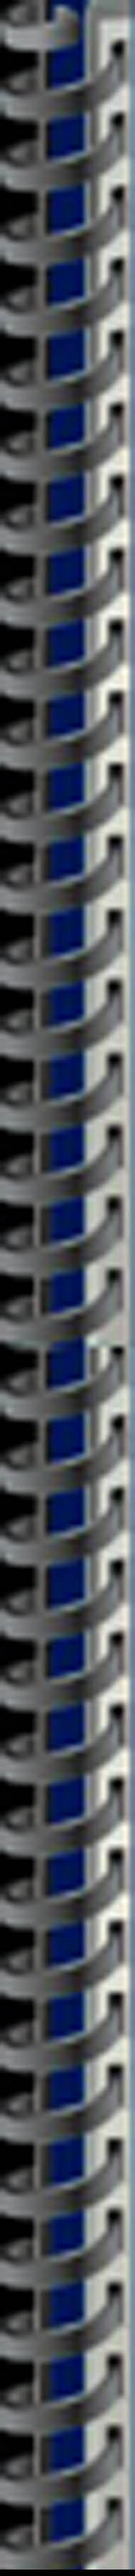
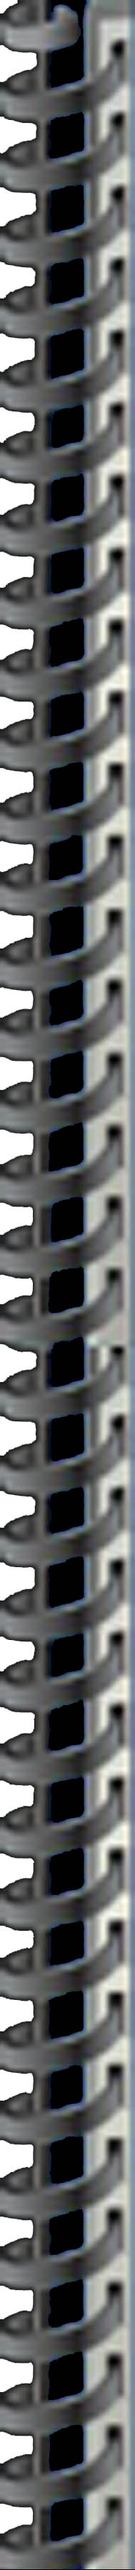
Style sheet updated: Background color of pages changed

diff --git a/assets/contents/view_Alexander The Great.html b/assets/contents/view_Alexander The Great.html
@@ -1,0 +1,31 @@
+<link rel="stylesheet" href="../../css/my_style.css">
+<link href="https://fonts.googleapis.com/css?family=Atma|Courgette|Galada|Josefin+Sans:600|Kalam" rel="stylesheet">
+<div class="articles1" style="text-align: center;">
+  <br>
+  Hailed variously as a demigod and the ‘son of Jupiter’ in his own times, the charisma surrounding the  personality, life and adventures of Alexander of Macedon (the Great) has captured the fancy of historians, bards and storytellers alike even after centuries of his demise. The legendary fame of Alexander and his conquests is not only a staple of Greek patriotism, but also rather paradoxically, as Richard Stoneman has noted [1] , the stuff of tales and ballads in even those lands which were once his conquered dominions. Whetting the imaginative appetites of bards and storytellers extending from Andalusia in the west to China in the east, cutting across temporal, spatial and linguistic barriers, the historical memory of Alexander has morphed into quasi-mythical narratives, giving rise to a new genre of literature known as ‘Alexander Romance’, written in both poetry and prose. One such rigorous tradition of composing Alexander Romances has existed in medieval Persia too, between the early 11th to 15th centuries, after which no Alexander Romance of note has been composed.
+  <br><br>
+  Needless to say, works of literature are not composed in a socio-intellectual vacuum. The characters in his writings are what an author makes them to be. Consequently, the convictions and opinions of an author have a lot of bearing upon how his characters are modeled, and these in turn are heavily influenced by the age and socio-intellectual milieu of which the author is a part. Here, I propose to examine three principal works- Abul Qasim Ferdowsi’s ‘Shah Nameh’, Nizami Ganjavi’s ‘Iskandar Nameh’, and Abdur Rahman Jami’s ‘Khiradnameh-ye-Iskandari’, all of which may be considered as representatives  of the Persian Alexander Romance epic genre, and thereby attempt to map the evolution of Alexander’s persona in this genre by placing these works in their respective socio-intellectual contexts. This paper, therefore, is a combined exercise in hermeneutics and legendary iconography.
+  <br><br>
+  Two distinct and opposing images of Alexander have existed in Persian literary tradition. The first, and older image ,derived from Zoroastrian priestly traditions, is that of Alexander as Iran’s arch enemy, the ‘Gizistag’ (accursed), a devil-incarnate and son of Ahriman (the arch diabolical figure in Zoroastrian mythology) who subjugates Iran, assassinates her legitimate king, decimates the priesthood and the nobility, and razes cities and fire temples to the ground. The second, and the more positive image of Alexander is derived from the lore prevalent amongst the Sasanid nobility, which probably had its roots in a Syrian recension of the Alexander Romance, and which later became Islamicized.[2]  In Ferdowsi’s Shah Nameh, an unresolved tension is evident between the older, negative and diabolical image of Alexander, and the newer, positive and by then Islamicized image. [3] In his work, Alexander is at once the accursed offspring of Ahriman, the arch enemy of Iran, and also the legitimate Iranian ruler, a world conqueror whose defining qualities are wisdom, generosity and piety- he is even shown as visiting the Kabah in Mecca. A closer inspection, however, reveals two reasons behind this literary anomaly. The first of these reasons is the sources which Ferdowsi has used in his magnum opus. As Haila Manteghi has demonstrated, the sources which Ferdowsi used in composing his legendary accounts were pre-Islamic and Persian, when the legend of Alexander had yet not been Islamicized and imbued with positive qualities. [4] Secondly, the reason behind this contradiction becomes all the more clear when one considers the literary backdrop against which Ferdowsi was writing. This was the period of the renaissance of the Iranian cultural and literary spirit, famously called the ‘Samanid Renaissance’ after its chief patrons, the Samanids. In Mahmud of Ghazni, Ferdowsi’s  patron, the Samanid renaissance had found a ready exponent. [5] Iranian patriotism, therefore, is the animating spirit of the Shah Nameh, and explains the deference paid by Ferdowsi to traditional Alexander –image in the Iranian ‘national history’ (Khwaday Namag). Also noteworthy here is how Ferdowsi appropriates Alexander into the line of Persian kings by making him half-Persian, as the son of King Darab from the daughter of Filqus (Philip), and therefore the half-brother of Darius – an act in keeping with the Iranian patriotic belief that prior to the Arabs, no foreign ruler had conquered Iran. [6]
+  <br><br>
+  By the time Nizami Ganjavi wrote his Iskandar Nameh, the image of Alexander in Persianate Muslim literary tradition had been fully Islamicized, and Alexander identified with the Qur’anic figure of ‘Dhul Qarnayn’ (the ‘two-horned’), and purged of all his former negative attributes. [7] In Nizami’s work, Alexander is still associated with the Greco-Roman antiquity as the king of ‘Rum’ (Byzantium), but he is no longer a Christian (as in Ferdowsi’s Shah Nameh), but a Muslim warrior and saint. In this two-part work, the first part, Sharaf  Nameh (‘the Book of  Honour’), Alexander is portrayed as a world-conqueror, moved not by the lust for wealth and temporal power, but by the missionary zeal to spread the civilizing rule of Islam. In the second part, Iqbal Nameh (‘the Book of Fortune’)he appears as a saint, surrounded by a group of (rather anachronistic) philosophers such as Plato, Aristotle, Socrates, Porphyry etc. [8] Thus, the earlier kingly and martial aspect of Alexander’s image is greatly subsumed into his role as a saint-proselytizer. 
+  <br><br>
+  The association of philosophy with sainthood in Nizami’s portrayal of Alexander as a warrior-saint-philosopher is an interesting and rather bold statement, and must be seen against the backdrop of the intense mounting religious opposition to the influence of Greek philosophy over Muslim theology in Nizami’s own times, largely due to the pressure from the Ash’ari ulama, representing one of the two orthodox schools in Sunni scholastic theology (the other being the Maturidis),who stressed the primacy of revelation over logical and philosophical reasoning  in attaining objective knowledge of God. It was in the eleventh century, the one prior to Nizami’s, that Muhammad Abu Hamid al-Ghazali, the mystic and premier Ash’ari theologian, had composed his ‘Tahafut-ul-Falasifa’ (‘The Incoherence of the Philosophers’) - a polemical denunciatory tract against Greek philosophy, which signaled the start of the Sunni orthodoxy’s long and bitter war against philosophers. Furthermore, two related incidents within Nizami’s living memory had deeply impacted him- the execution of the 35-year old Shihab -ad -Din Suhrawardi, the founder of the Illuminationist (Ishraqi) school of philosophy in 1191 at the fatwa of a tribunal of theologians at Aleppo, and the banning of the septuagenarian Ibn Rushd (known in the West as Averroes) from his hometown Cordoba in 1195, and the burning of his books. Therefore, when Nizami combined the saint and the philosopher within the persona of Alexander, it was indicative of  his stance on philosophy, in whose defence he squarely stood – philosophy was for him God-given, an extension of man’s innate rationality, and therefore compatible with revelation. [9]
+  <br><br>
+  His kingly majesty and saintliness notwithstanding, Abdur Rahman Jami in his Khiradnameh –ye –Iskandari (‘the Book of Alexander’s Wisdom) develops the character of Alexander couched in distinctly humanistic terms. Alexander may be a world conqueror and saint-missionary, but he is nevertheless human, and therefore mortal- a fact underscored by his doomed search for the ‘Water of  Life’ (Aab-i-Hayat) which can grant him immortality, and by his request to his ministers to leave his hand hanging out of the shroud at his burial to demonstrate that he, a world-conqueror and paragon of spirituality, leaves the world empty handed just like all others. This emphasis on humanism in Alexander’s portrayal may be seen as a part of the larger trend of the efflorescence of Persian literary humanism in the Timurid Empire of which Jami was a resident, and also as a reflection of Sufi otherworldliness emphasizing the transient nature of the temporal world, whose roots lay in Jami’s Naqshbandi associations. [10] 
+  <br><br>
+  The evolution of Alexander’s image in medieval Persian epic literature, therefore, has been a process marked by constant interaction with the socio-intellectual matrix in which it unfolded- a highly variegated development, influenced directly by the socio-intellectual thought currents which animated the literati and intelligentsia of medieval Iran. From Ferdowsi’s robust Iranian patriotism , to Nizami’s philosophical sensibilities, to Jami’s passionate humanism and otherworldliness, each of these influences have left an indelible mark on the manner in which Alexander’s legendary persona has evolved, in the process transforming the folk memory of Alexander from that antagonist, alien conqueror and byword for tyranny to that of a familiar, homely icon- an epitome of all those values which the soul of Persianate civilization has always espoused. Somewhat similar has been the case of his Indo-Greek counterpart, Menander or Milinda, the inquisitive king of Nagasena’s  ‘Milinda Panho’, fondly remembered as the ‘Dhammaka’ (upholder of the ‘Dhamma’) in Indo-Buddhist canonical literature – a far cry from the distaste in which his Yavana Seleucid and Indo-Bactrian antecedents had been held by the classical authors. This indigenization and assimilation of the bitter memory of conquering foreign monarchs into the folk memory of the conquered through the agency of literature validates a point argued so passionately and eloquently by Jami- the role of literature as a unifying bond across humanity.
+  <br><br><br><br>
+  NOTES <br><br>
+  [1] Richard Stoneman, ‘Introduction’ in Richard Stoneman, Kyle Ericson and Ian Netton (eds.), The Alexander Romance in Persia and the East,(Groningen: Barkhuis Publishing and Groningen University Library, 2012 ), p. ix.<br>
+  [2] Josef Wiesehöfer, ‘The ‘Accursed’ and the ‘Adventurer’: Alexander the Great in Iranian Tradition’ in Z. David Zuwiyya (ed.), A Companion to Alexander Literature in the Middle Ages, (Leiden: Brill, 2011), pp. 124-129.<br>
+  [3] ibid, p. 129.<br>
+  [4] Haila Manteghi, ‘Alexander the Great in the Shahnameh of  Ferdowsi’, in Stoneman, Ericson, Netton  (eds.),The Alexander Romance, pp. 161-174.<br>
+  [5] Satish Chandra, History of Medieval India,(New Delhi: Orient Blackswan Private Limited, 2007, rpt.2014), p. 59.<br>
+  [6] Sulochana Asirvatham, ‘Alexander the Philosopher in Greco-Roman, Persian and Arabic Traditions’ in Stoneman, Ericson, Netton (eds.), The Alexander Romance, p. 320.<br>
+  [7] Z. David Zuwiyya, ‘ The Alexander Romance in the Arabic Tradition’ in Zuwiyya (ed.), A Companion to Alexander Literature, pp.74-75.<br>
+  [8] Asirvatham, ‘Alexander the Philosopher’ in Stoneman, Ericson, Netton (eds.) The Alexander Romance, pp. 321-22.<br>
+  [9] Johanne Christoph Bürgel, ‘Nizami’s World Order’ in Johann Christoph Bürgel and Christina van Ruymbeke (eds.), A Key to the Treasure of the Hakim: Artistic and Humanistic aspects of Nizami Ganjavi’s Khamsa,(Leiden:Leiden University Press, 2011), p.27.<br>
+  [10] Owen Cornwall, Alexander and the Persian Cosmopolis,1000-1500, (Colombia: Colombia University Press, 2016), pp. 152-180.<br>
+
+</div>

diff --git a/assets/contents/Alexander The Great.html b/assets/contents/Alexander The Great.html
@@ -1,0 +1,98 @@
+<!DOCTYPE html>
+<html lang="en-US">
+
+<head>
+  <meta charset="UTF-8">
+    <meta name="viewport" content="width=device-width, initial-scale=1.0, shrink-to-fit=no" />
+    <title>From World-conqueror To Warrior-saint: The Image Of Alexander The Great In Medieval Persian Epics</title>
+
+    <!--Bootstrap CSS-->
+    <link rel="stylesheet" href="https://maxcdn.bootstrapcdn.com/bootstrap/4.0.0/css/bootstrap.min.css" integrity="sha384-Gn5384xqQ1aoWXA+058RXPxPg6fy4IWvTNh0E263XmFcJlSAwiGgFAW/dAiS6JXm" crossorigin="anonymous">
+  
+    <!-- CUSTOM STYLE -->
+    <link href="https://fonts.googleapis.com/css?family=Architects+Daughter|Gamja+Flower" rel="stylesheet">
+    <link rel="stylesheet" href="../../css/my_style.css">
+    <link href="https://fonts.googleapis.com/css?family=Atma|Courgette|Galada|Josefin+Sans:600|Kalam" rel="stylesheet">
+    
+  </head>
+
+  <body>
+
+    <section class="navbar-brand top-bar">
+      <p style="text-align: center;">
+        <a href="index.html"><img class ="logo" src="../../images/logo_niche.png"></a>
+        <span class="ymg">a product of <a href="youninquemag.org"><img src="../../images/logo_ymg.png"></a></span>
+      </p>
+    </section>
+    <section>
+          <ul class="pages">
+            <li><a href="#">Home</a></li>
+            <li class="dropdown-C"><a href="#">Contents</a>
+              <div class="dropdown-items-C">
+                <a href="">Physics and Philosophy</a>
+                <a href="">A Chat with Ideology</a>
+                <a href="">Alexander The Great</a>
+                <a href="">Sequencing Genome</a>
+                <a href="">Capital and Cricket</a>
+                <a href="">Gaming, Life and the Styles</a>
+                <a href="">Reservation in India</a>
+                <a href="">বিশ্বাসের অনুচ্ছেদ</a>
+                <a href="">কবির  গান</a>
+                <a href="">সঙ্গীত সবার জন্য</a>
+                <a href="">ঊর্ণনাভ</a>
+                <a href="">কাঠের আলমারির ঝুল ময়লা</a>
+              </div>
+            </li>
+            <li><a href="#">Our Authors</a></li>
+            <li><a href="#">Editor's note</a></li>
+          </ul>
+    </section>
+
+    <main>
+      <div class="container">
+        <p class="content">
+          <img src="../../images/spiral.jpg" class="spiral">
+
+          <p class="article" style="text-align: center; font-family: 'Kalam', cursive;"">
+            <span class="content-heading">
+              <span style="font-size: 1em;">
+                From World-conqueror To Warrior-saint: The Image Of Alexander The Great In Medieval Persian Epics
+              </span>
+              <span style="font-size: 0.75em; font-weight: normal;">
+                <br>by<br>Anwit Shahi
+              </span>
+            </span>
+            <br><br>
+            <span class="ifrm">
+              <iframe src="view_Alexander The Great.html" height="700px" width="100%">iframe</iframe>
+            </span>
+          </p>
+        </p>
+      </div>
+    </main>
+
+    <div>
+      <footer>
+        <table>
+          <tr>
+            <td>
+              <a href="facebook.com/youniquemag123"><img src="../../images/fb_logo.jpg"> Find us on Facebook</a>
+            </td>
+            <td><a href=""><img src="../../images/prev.png"> Previous page</a></td>
+            <td>From World-conqueror To Warrior-saint: The Image Of Alexander The Great In Medieval Persian Epics</td>
+            <td><a href="">Next Page<img src="../../images/next.png"></a></td>
+            <td><p>Contact us:<br>email: niche@youniquemag.org</p></td>
+          </tr>
+        </table>
+      </footer>
+    </div>
+
+    <!--JS-->
+    <script src="https://code.jquery.com/jquery-3.2.1.slim.min.js" integrity="sha384-KJ3o2DKtIkvYIK3UENzmM7KCkRr/rE9/Qpg6aAZGJwFDMVNA/GpGFF93hXpG5KkN" crossorigin="anonymous"></script>
+    <script src="https://cdnjs.cloudflare.com/ajax/libs/popper.js/1.12.9/umd/popper.min.js" integrity="sha384-ApNbgh9B+Y1QKtv3Rn7W3mgPxhU9K/ScQsAP7hUibX39j7fakFPskvXusvfa0b4Q" crossorigin="anonymous"></script>
+    <script src="https://maxcdn.bootstrapcdn.com/bootstrap/4.0.0/js/bootstrap.min.js" integrity="sha384-JZR6Spejh4U02d8jOt6vLEHfe/JQGiRRSQQxSfFWpi1MquVdAyjUar5+76PVCmYl" crossorigin="anonymous"></script>
+    <script src="https://ajax.googleapis.com/ajax/libs/jquery/3.3.1/jquery.min.js"></script>
+  </body>
+
+
+</html>

diff --git a/css/my_style.css b/css/my_style.css
@@ -102,7 +102,7 @@ background-color:#4CAF50;
 
 .article {
 	color: white;
-	background-color: #ea0a06;
+	background-color: #cc0400;
 	padding-top: 4%;
 	padding-bottom: 8%;
 	padding-left: 10%;
@@ -111,7 +111,7 @@ background-color:#4CAF50;
 }
 .article-cover {
 	color: white;
-	background-color: rgb(23, 24, 25);
+	background-color: black;
 	padding-bottom: 6%;
 	padding-left: 10%;
 	padding-right: 10%;
@@ -142,7 +142,7 @@ background-color:#4CAF50;
 
 .auth-table {
 	border: none;
-	background-color: rgb(0,20,85);
+	background-color: #cc0400;
 	color: white;
 	padding-top: 10px;
 	margin: 0 0 0 0;
@@ -164,7 +164,7 @@ background-color:#4CAF50;
 }
 .cont-table {
 	border: none;
-	background-color: #ea0a06;
+	background-color: #cc0400;
 	color: white;
 	margin: 0 0 0 0;
 	width: 100%;
@@ -177,7 +177,7 @@ background-color:#4CAF50;
 	color: white;
 }
 .ifrm {
-	border-color: #ea0a06;
+	border-color: #cc0400;
 	border-style: solid;
 	border-width: 2em;
 	position: relative;
